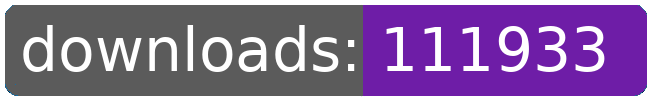
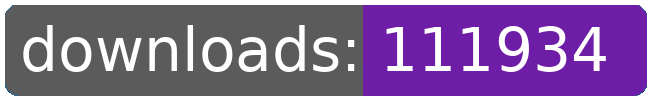
dl log written

Changed region(s): [[0.8615, 0.24, 0.9538, 0.72]]

diff --git a/README.md b/README.md
@@ -120,8 +120,8 @@
 		<td>5891</td>
 		<td>5925</td>
 		<td>5949</td>
-		<td>5965</td>
-		<td>+ 16</td>
+		<td>5966</td>
+		<td>+ 17</td>
 	</tr>
 	<tr>
 		<td>map.reveal</td>
@@ -274,8 +274,8 @@
 		<td></td>
 		<td></td>
 		<td></td>
-		<td>111933</td>
-		<td>170</td>
+		<td>111934</td>
+		<td>171</td>
 	</tr>
 </table>
 </sub></sup>
@@ -355,8 +355,8 @@
 		<td>5891</td>
 		<td>5925</td>
 		<td>5949</td>
-		<td>5965</td>
-		<td>+ 16</td>
+		<td>5966</td>
+		<td>+ 17</td>
 	</tr>
 	<tr>
 		<td>quargoutfitter</td>
@@ -553,8 +553,8 @@
 		<td></td>
 		<td></td>
 		<td></td>
-		<td>111933</td>
-		<td>170</td>
+		<td>111934</td>
+		<td>171</td>
 	</tr>
 </table>
 </sub></sup>
